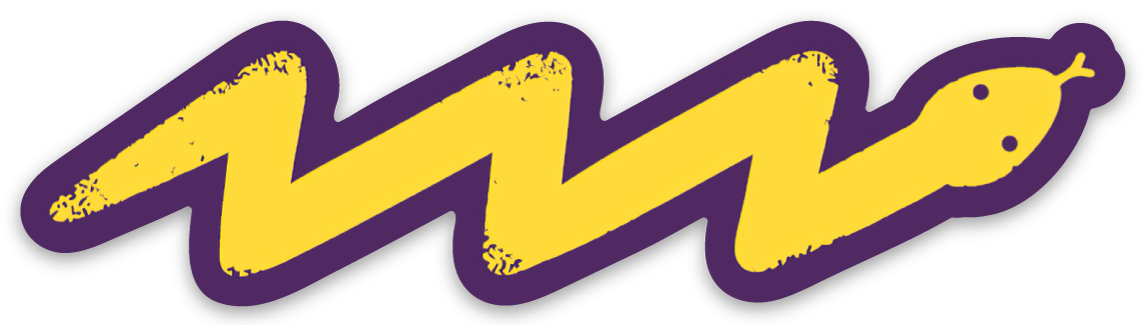
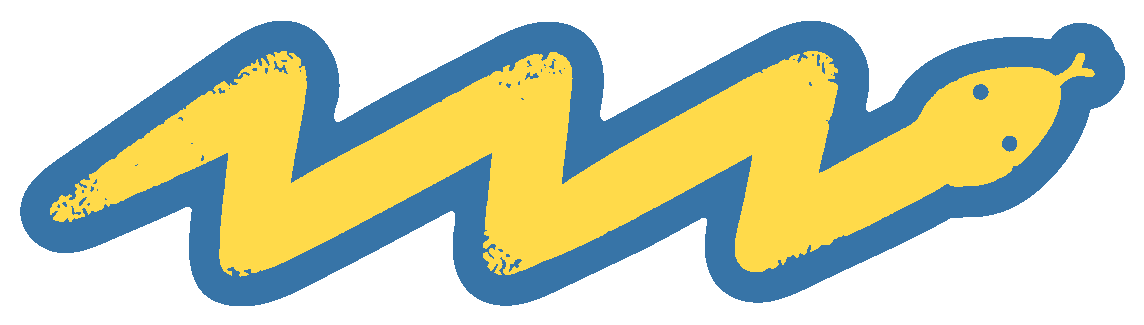
swap images

diff --git a/gatsby-config.js b/gatsby-config.js
@@ -143,7 +143,7 @@ module.exports = {
         background_color: `#ffffff`,
         theme_color: `#cccccc`,
         display: `minimal-ui`,
-        icon: `content/assets/pyohio-logo-white-transparent.png`, // This path is relative to the root of the site.
+        icon: `content/assets/pyohio-logo.png`, // This path is relative to the root of the site.
       },
     },
     {
